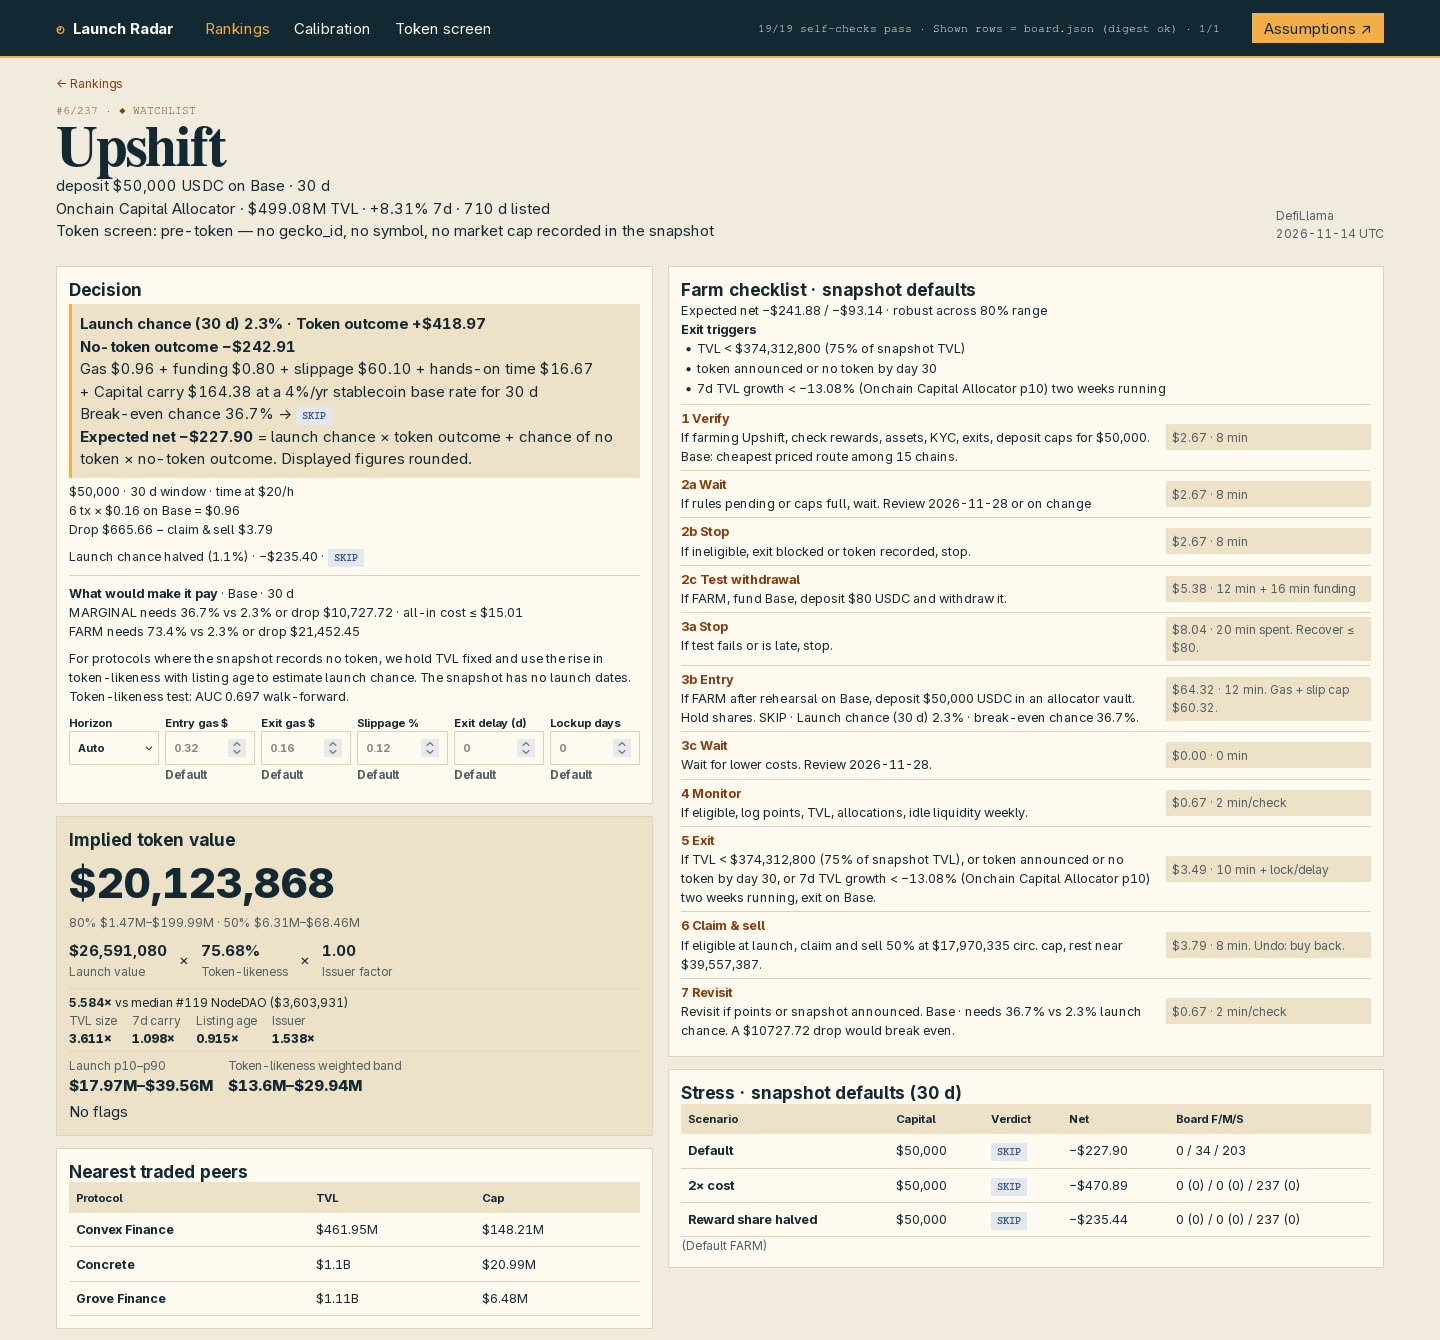
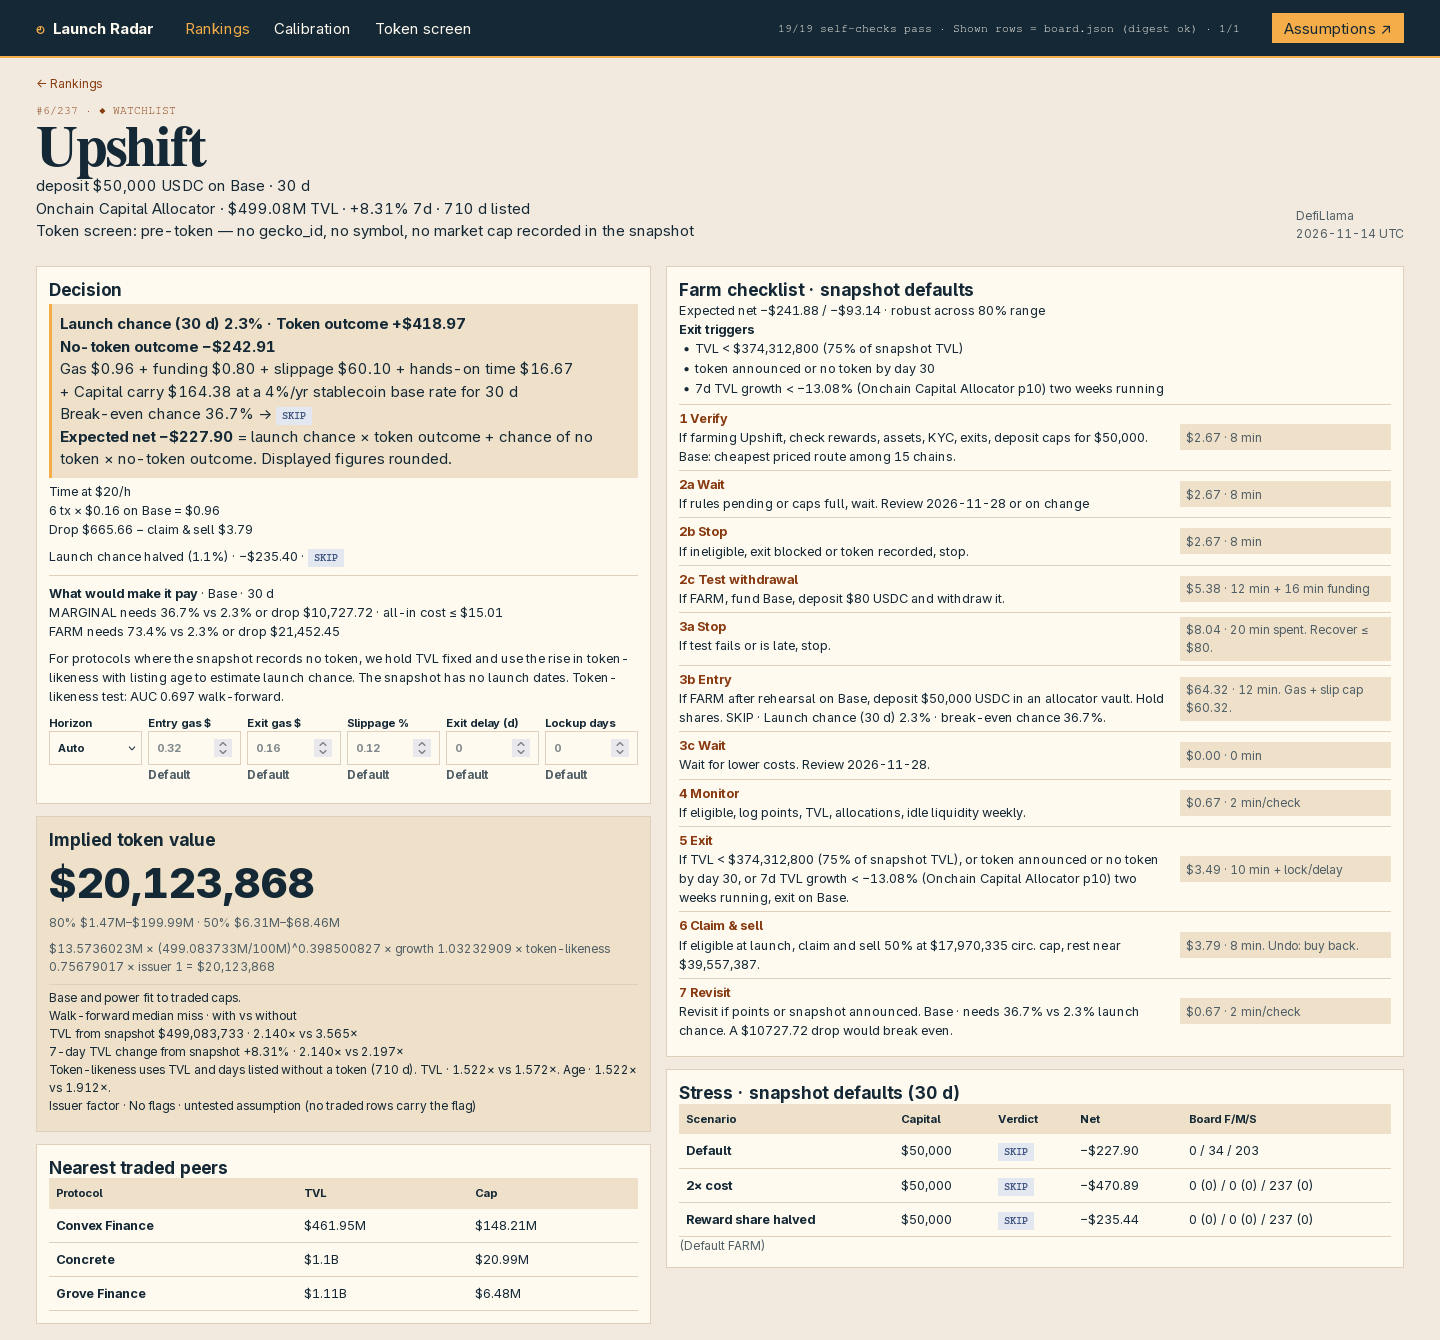
Per-row value equation on the board

diff --git a/dashboard/app.js b/dashboard/app.js
@@ -98,13 +98,12 @@ const option=(v,lbl,selected)=>`<option value="${esc(v)}"${selected?" selected":
 	filter=([lbl,k,opts,...names],st)=>`<label>${lbl}<select name=${k}>${html(opts,(v,i)=>option(v,filterName(k,v,names[i]),v===st[k]))}</select></label>`
 function plans(st,rows){
 	const best=rows.filter(({plan:p})=>p.verdict!=="SKIP").sort((a,b)=>b.plan.net-a.plan.net).slice(0,5)
-	return inset("Best plans that clear break-even",best.length?`<p>${grades.map(v=>count(rows,p=>p.plan.verdict===v)+" "+v).join(" · ")}
-${html(best,p=>{
+	return inset("Best plans that clear break-even",best.length?html(best,p=>{
 	const f=p.plan
 	return`<div><b class=pos>${net(f.net)} net</b>${pLink(p,st)} ${badge(f.verdict)}
 <small class=action>${esc(f.action)}</small><small>${usd(f.capital)} · ${f.handsOnMinutes} min hands-on<br>${launchLabel(f.horizon)} ${chance(f.q)} · Break-even chance ${breakEven(f.pStar)}</small>
 <small class=outcomes>Token ${decisionNet(f.withToken)} · No token ${decisionNet(f.noToken)}</small></div>`
-})}`:"<p>No visible row clears break-even."," plans")
+}):"<p>No visible row clears break-even."," plans")
 }
 const boardShell=st=>`${intro("Pre-token rankings","30–365 d farms")}
 <div class=integrity role=group aria-label=Integrity></div>
@@ -132,18 +131,21 @@ function filtered({scope,family,chain,verdict,flag,tvl,q,sort,dir}){
 }
 const range=r=>r.map(short).join("–"),
 	valueRange=r=>`80% ${range(r[80])} · 50% ${range(r[50])}`,
-	valueTitle=([score,base,s,factor],r)=>`${usd(score)} · 80% range ${range(r[80])} · ${short(base)} × ${pct(s,1)} × ${factor}`,
 	endpoints=rs.flatMap(({score,ranges})=>[score,...ranges[80]]),
 	logMin=log(min(...endpoints)),logSpan=log(max(...endpoints))-logMin||1,
 	barAt=n=>1+40*(log(n)-logMin)/logSpan
+function equation(r,format){
+	const [base,tvl,slope,...terms]=r.equation
+	return`<small class=equation>$${base}M × (${tvl}M/${tvlMillions}M)^${slope}${html(terms,([label,n])=>` × ${label} ${n}`)} = ${format(r.score)}</small>`
+}
 function tableRow(r,st){
-	const {slug,score,launchValue,tokenOdds,haircut,ranges,rank,plan:fp,watchlist,tvl_usd,change_7d}=r,
-		k=esc(slug),[lo,hi]=ranges[80].map(barAt),factors=[score,launchValue,tokenOdds,haircut]
-	return`<tr data-slug="${k}" data-factors=${factors}>
+	const {slug,score,tokenOdds,ranges,rank,plan:fp,watchlist,tvl_usd,change_7d}=r,
+		k=esc(slug),[lo,hi]=ranges[80].map(barAt)
+	return`<tr data-slug="${k}">
 <td class=rank>${rank}
 <th scope=row>${pLink(r,st)}${r.flags.length?" <span title='Issuer flag'>!</span>":""}
 <small>${rowName(r)}${watchlist?" <span class=watch title=Watchlist>◆</span>":""}
-<td class=value title="${valueTitle(factors,ranges)}"><b>${short(score)}</b><svg class=range aria-hidden=true><path d="M${lo} 4H${hi}"/><path d="M${barAt(score)} 0v8"/></svg>
+<td class=value title="80% range ${range(ranges[80])}"><b>${short(score)}</b><svg class=range aria-hidden=true><path d="M${lo} 4H${hi}"/><path d="M${barAt(score)} 0v8"/></svg>${equation(r,short)}
 <td>${pct(tokenOdds,1)}<td>${short(tvl_usd)}
 <td>${pill(change_7d)}
 <td>${days(r)}
@@ -152,7 +154,7 @@ function tableRow(r,st){
 }
 function compare(st){
 	const picks=st.compare.map(slug=>bySlug.get(slug))
-	if(!picks.length) return "<p class=hint>Compare up to 3."
+	if(!picks.length) return ""
 	const update=(compare,lbl,title=lbl)=>`<a class=btn href="${href("board",{...st,compare})}" title="${esc(title)}">${lbl}</a>`,
 		heads=picks.map(p=>pLink(p,st)+" "+update(st.compare.filter(s=>s!==p.slug),"×",`Remove ${p.name}`)),
 		stats=[["Value",p=>short(p.score)],["TVL",p=>short(p.tvl_usd)],
@@ -172,7 +174,7 @@ function verifyRows(rows,st){
 			&&trs.every((tr,i)=>tr.dataset.slug===rows[i].slug)
 	const matched=count(trs,tr=>{
 		const [rank,,value,odds]=tr.cells,n=Number(rank.textContent)
-		return matchesExport(n,tr.dataset.slug,value.textContent.trim(),tr.querySelector(".badge")?.textContent,short)
+		return matchesExport(n,tr.dataset.slug,value.firstElementChild.textContent,tr.querySelector(".badge")?.textContent,short)
 			&&odds.textContent===pct(board[n-1].token_odds,1)
 	})
 	const pass=!!(sameHash&&sorted&&matched===total)
@@ -229,16 +231,20 @@ ${text(166,167,"middle","Days pre-token")}
 </svg><p>${n} plotted${rs.length>n?` · ${rs.length-n} undated`:""}`
 }
 
-const stats=(items,kind="")=>`<dl class="${kind}">${html(items,([lbl,val,style=""])=>
-	`<div><dt>${lbl}<dd class="${style}">${val}</div>`)}</dl>`,
-	table=(kind,heads,body,attrs="")=>`<div class=scroll tabindex=0${attrs}><table class=${kind}><thead><tr>${heads}<tbody>${body}</table></div>`,
+const table=(kind,heads,body,attrs="")=>`<div class=scroll tabindex=0${attrs}><table class=${kind}><thead><tr>${heads}<tbody>${body}</table></div>`,
 	facts=(heads,rs)=>table("facts","<th>"+(typeof heads==="string"?heads.split("|"):heads).join("<th>"),
 		html(rs,([first,...cells])=>`<tr><th scope=row>${first}<td>${cells.join("<td>")}`))
-function drivers(r){
-	const {rank,name,score}=model.reference,factors=values(r.attribution)
-	return`<div class=drivers><p><b>${mult(r.score/score,3)}</b> vs median #${rank} ${esc(name)} (${usd(score)})
-${stats(["TVL size","7d carry","Listing age","Issuer","Family","Rounding"]
-	.map((lbl,i)=>[lbl,mult(factors[i],3)]).filter(([,x],i)=>i<4||x!=="1.000×"))}</div>`
+function valueSources(r){
+	const miss=(rows,label)=>{
+		const test=rows.find(e=>e.term===label)
+		return test?` · ${mult(test.withTerm.walk.miss,3)} vs ${mult(test.without.walk.miss,3)}`:""
+	}
+	return`<div class=sources><p>Base and power fit to traded caps.
+<p>Walk-forward median miss · with vs without
+<p>TVL from snapshot ${usd(r.tvl_usd)}${miss(evidence,"TVL exponent")}
+<p>7-day TVL change from snapshot ${chg(r.change_7d)}${r.growth!==r.change_7d?` (uses ${chg(r.growth)})`:""}${miss(evidence,"7d carry")}
+<p>Token-likeness uses TVL and days listed without a token (${r.ageDays==null?"median used":days(r)+" d"}). TVL${miss(odds.evidence,"TVL in token-likeness")}. Age${miss(odds.evidence,"Age in token-likeness")}.
+<p>Issuer factor · ${r.flags.length?r.flags.map(esc).join(" · ")+" · MARGINAL cap":"No flags"} · ${flagNote}</div>`
 }
 const quoteFields=[
 	["entryGas","Entry gas $"],["exitGas","Exit gas $"],["slippage","Slippage %",100],
@@ -259,7 +265,7 @@ function cashFlows(fp,quote,result){
 <p>+ Capital carry ${money(capitalCharge)} at a ${pct(riskFreeRate,0)}/yr stablecoin base rate for ${holding} d
 <p>Break-even chance ${breakEven(pStar)} → ${badge(verdict)}
 <p><b>Expected net ${decisionNet(gain)}</b> = launch chance × token outcome + chance of no token × no-token outcome. Displayed figures rounded.</div>
-<p>${usd(capital)} · ${horizon} d window · time at ${usd(hourlyUsd)}/h
+<p>Time at ${usd(hourlyUsd)}/h
 <p class=gas>${gasBasis} on ${esc(chain.name)} = ${money(gas)}
 <p>Drop ${money(drop)} − claim &amp; sell ${money(claimSell)}
 <p class=half-q>Launch chance halved (${chance(q/2)}) · ${net(half.net)} · ${badge(half.verdict)}
@@ -283,7 +289,7 @@ const labels="1 Verify|2a Wait|2b Stop|2c Test withdrawal|3a Stop|3b Entry|4 Mon
 function detail(st,r){
 	const back=`<a class=back href="${href("board",st)}">← Rankings</a>`
 	if(!r) return back+intro("Unavailable")
-	const {plan:fp,flags,band,ranges,rangeFarm:[low,high]}=r,
+	const {plan:fp,ranges,rangeFarm:[low,high]}=r,
 		tokenLine=r.reason==="watch"?`watchlist exception — kept despite ${r.nameRule||r.category}`:
 			`pre-token — no gecko_id, no symbol, no ${r.mcap_usd==null?"":"positive "}market cap recorded in the snapshot`,
 		summary=`${rowName(r)} · ${short(r.tvl_usd)} TVL · ${chg(r.change_7d)} 7d · ${days(r)} d listed<br><span id=token-reason>Token screen: ${esc(tokenLine)}</span>`,
@@ -293,19 +299,15 @@ function detail(st,r){
 		const p=fp.stress[k]??fp,{all=verdicts,farm}=stress[k]??{}
 		return[lbl,usd(p.capital),badge(p.verdict),net(p.net),grades.map(v=>farm?`${all[v]} (${farm[v]})`:all[v]).join(" / ")]
 	}),
-		flips=[low,high].flatMap(({verdict},i)=>verdict===fp.verdict?[]:[`flips to ${verdict} at ${i?"high":"low"} end`]),
-		factors=[[usd(r.launchValue),"Launch value"],[pct(r.tokenOdds),oddsLabel],[r.haircut.toFixed(2),"Issuer factor"]]
+		flips=[low,high].flatMap(({verdict},i)=>verdict===fp.verdict?[]:[`flips to ${verdict} at ${i?"high":"low"} end`])
 	return`${back}${intro(esc(r.name),summary,lead,lbl)}
 <div class=detail><div>
 ${quotePanel(r)}
 <section class="panel inset valuation">
 <h2>Implied token value</h2><div class=amount>${usd(r.score)}</div>
 <small class=value-range>${valueRange(ranges)}</small>
-<div class=equation>${factors.map(([n,lbl])=>`<div><b>${n}</b><small>${lbl}</small></div>`).join("×")}</div>
-${drivers(r)}
-${stats([["Launch p10–p90",range([band.low,band.high])],
-		["Token-likeness weighted band",range([band.weightedLow,band.weightedHigh])]],"band")}
-<p>${flags.length?flags.map(esc).join(" · ")+" · MARGINAL cap":"No flags"}
+${equation(r,usd)}
+${valueSources(r)}
 </section>
 ${inset("Nearest traded peers",facts("Protocol|TVL|Cap",
 		r.peers.map(p=>[esc(p.name),short(p.tvl_usd),short(p.mcap_usd)]))," peers")}

diff --git a/dashboard/style.css b/dashboard/style.css
@@ -5,7 +5,7 @@ font:15px/1.5 Adwaita Sans,FreeSans,sans-serif;
 font-variant-numeric:tabular-nums;color:var(--ink);background:#f2eade
 }
 *{box-sizing:border-box}
-body,h1,h2,h3,p,dl,dd{margin:0}
+body,h1,h2,h3,p{margin:0}
 a{color:inherit;text-decoration:none}
 a:hover{text-decoration:underline}
 button,select,input{font:inherit;color:inherit}
@@ -13,11 +13,11 @@ button,select,summary{cursor:pointer}
 :focus-visible{outline:2px solid}
 h1{font:700 clamp(2.4rem,4vw,3.9rem)/1 FreeSerif,serif;letter-spacing:-.035em}
 h2{font-size:1.14rem;line-height:1.25}
-.frame{width:min(1328px,95%);margin:auto}
+.frame{width:min(1376px,95%);margin:auto}
 body>header{background:var(--ink);color:var(--sheet);border-bottom:2px solid var(--signal)}
 .chip,.panel,dialog,.dialog-top{background:var(--sheet)}
-.brand,.mast,.bar,.dialog-top,.equation{display:flex;align-items:center}
-.intro,.readings,.legend,.integrity,dl,nav{display:flex}
+.brand,.mast,.bar,.dialog-top{display:flex;align-items:center}
+.intro,.readings,.legend,.integrity,nav{display:flex}
 .mast{min-height:56px;gap:32px}
 .brand{gap:8px;font-weight:700}
 .brand span,[aria-current]{color:var(--signal)}
@@ -27,9 +27,9 @@ nav{gap:24px;margin-right:auto}
 .btn,.chip{border:0}
 .btn{padding:4px 12px;background:var(--signal);color:var(--ink)}
 #checks,.rank,.kicker{font:.76rem monospace}
-small,dt,.curve{color:var(--dim)}
+small,.curve{color:var(--dim)}
 .intro,.bar,.dialog-top{justify-content:space-between}
-.integrity,.readings,.drivers dl{flex-wrap:wrap}
+.integrity,.readings{flex-wrap:wrap}
 .intro{align-items:end;margin:12px 0 24px}
 .integrity{gap:2px;margin:-17px 0 8px}
 .chip{padding:2px 1px;white-space:nowrap;font-size:.68rem}
@@ -42,14 +42,14 @@ small,dt,.curve{color:var(--dim)}
 .groups{grid:auto/1fr 1fr}
 #token-groups a{text-decoration:underline}
 #token-groups [aria-current]{color:inherit;font-weight:700}
-.readings,.band,.board,.detail,.research,.drivers dl{gap:1rem}
+.readings,.board,.detail,.research{gap:1rem}
 :not(strong)>small,.readings span,svg,.back{display:block}
 .misses strong{font-size:1.4rem}
-small,dt,.curve,.drivers,.rail,.hint,.back,.kpi{font-size:.8rem}
+small,.curve,.sources,.rail,.back,.kpi{font-size:.8rem}
 .valuation,.decision,.steps small,thead,.rank{background:var(--wash)}
 .board,.detail,.research{align-items:start}
-.board{grid:auto/1fr 310px}
-.rail,.detail>div,.legend,.equation{gap:12px}
+.board{grid:auto/1fr 290px}
+.rail,.detail>div,.legend{gap:12px}
 .bar{padding:12px 16px 8px}
 .filters{grid:auto/1.4fr repeat(6,1fr);padding:0 16px 8px}
 :is(.filters,.quotes){
@@ -59,16 +59,19 @@ small,dt,.curve,.drivers,.rail,.hint,.back,.kpi{font-size:.8rem}
 .scroll{overflow:auto}
 #active-filters:not(:empty){display:flex;align-items:center;flex-wrap:wrap;gap:6px;margin:0 16px 8px}
 #active-filters .chip{padding:2px 8px;background:var(--wash);font-size:.8rem;white-space:normal}
-#results .scroll{max-height:511px}
+#results .scroll{max-height:675px}
 table{width:100%;border-collapse:collapse}
 th{text-align:left}
 thead{font-size:.75rem}
-.ranks{min-width:880px;font-size:.88rem;line-height:1.15}
+.ranks{min-width:1020px;font-size:.88rem;line-height:1.15}
 .ranks :is(td,th){padding:2px 4px}
+.ranks tbody :is(td,th){vertical-align:top;padding-bottom:17px}
 .ranks :is(td,small){white-space:nowrap}
-.ranks tr>:nth-child(8){box-shadow:inset 2px 0 var(--ink);padding-left:8px}
+.ranks tr>:nth-child(8){padding-left:8px}
 .ranks td:nth-child(9) small{white-space:normal}
+.value{position:relative}
 .value b{font-size:1rem}
+.value .equation{position:absolute;left:4px;bottom:2px;font-size:.75rem}
 .range{width:42px;height:8px;margin-left:4px;vertical-align:middle;background:var(--wash)}
 .range path{stroke:var(--ink);stroke-width:2}
 .range path:first-child{stroke:var(--signal);stroke-width:4}
@@ -79,9 +82,9 @@ thead{font-size:.75rem}
 .ranks .badge{min-width:9ch;border:1px solid var(--mark);border-radius:2px;font-size:11px}
 .ranks .skip{--mark:var(--ink);--tint:transparent}
 .rank,.ranks th:first-child{text-align:center}
-.hint,.compare{margin:0 16px 8px}
+.compare{margin:0 16px 8px}
 tbody tr{border-bottom:var(--line)}
-.protocol,dd,.amount{font-weight:750}
+.protocol,.amount{font-weight:750}
 .pos,.chip[data-pass=true]{color:var(--gain)}
 .neg,.chip[data-pass=false]{color:var(--loss)}
 .badge{padding:3px 6px;font:700 .7rem/1.15 monospace;color:var(--mark);background:var(--tint)}
@@ -97,7 +100,7 @@ circle{fill:var(--mark)}
 .plot g text{fill:var(--ink);font-weight:700;paint-order:stroke;stroke:var(--sheet);stroke-width:3px;stroke-linejoin:round}
 .legend{font:.7rem monospace}
 .legend span::before{content:"● ";color:var(--mark)}
-.plans div,.pay,.steps li,.drivers,.band{border-top:var(--line)}
+.plans div,.pay,.steps li,.sources{border-top:var(--line)}
 .plans{line-height:1.2}
 .plans b{float:right}
 .pay{padding-top:8px}
@@ -111,10 +114,10 @@ circle{fill:var(--mark)}
 .detail h3,.steps p,.quote p,.facts,.kpi h2,.exits,.range-net{font-size:.85rem}
 .quote .decision p{font-size:1rem}
 .exits{margin:0;padding-left:1.25em}
-.half-q,.quotes,.pay,.equation{margin-block:8px}
+.half-q,.quotes,.pay,.valuation .equation{margin-block:8px}
 .quotes{grid:auto/repeat(auto-fit,minmax(80px,1fr));gap:6px}
 .amount{font-size:2.8rem}
-.drivers,.band,.steps li{padding:4px 0}
+.sources,.steps li{padding:4px 0}
 .facts :is(td,th){padding:7px}
 .research{grid:auto/7fr 5fr}
 dialog{margin:0 0 0 auto;height:100%;max-height:none;width:min(640px,100%);border:0}

diff --git a/dashboard/model.js b/dashboard/model.js
@@ -352,16 +352,23 @@ const tokenOdds=(fit,p)=>sigmoid(dot(oddsFeatures(p,fit.age),fit.beta))
 
 const launchOdds=(fit,p)=>record(A.horizons,h=>max(0,
 	(tokenOdds(fit,{...p,ageDays:(p.ageDays??fit.age)+h})-p.tokenOdds)/(1-p.tokenOdds)))
-function attribution(p,ref,fit,odds){
-	const sized={...ref,rawSize:p.rawSize,size:p.rawSize+(ref.size-ref.rawSize)},
-		carried={...sized,size:p.size,growth:p.growth},
-		aged={...carried,ageDays:p.ageDays},
-		[size,carry,age,family]=[sized,carried,aged,p].map((row,i,path) =>
-		exp(capLog(fit,row)-capLog(fit,path[i-1]??ref))),
-		midOdds=tokenOdds(odds,sized)
-	return{size:size*midOdds/ref.tokenOdds,carry,age:age*p.tokenOdds/midOdds,
-		issuer:p.haircut/ref.haircut,family,
-		rounding:(p.score/rawScore(p))/(ref.score/rawScore(ref))}
+const tvlMillions=A.tvlReference/1e6,
+	equationScore=([base,tvl,slope,...terms])=>max(1,round(terms.reduce((v,[,n])=>v*n,
+		base*1e6*(tvl/tvlMillions)**slope)))
+function valueEquation(fit,p){
+	const [intercept,slope,...weights]=fit.coefficients,[,size,...inputs]=capInputs(p,fit),
+		terms=[["growth",exp((size-p.rawSize)*slope)],
+			...fit.features.flatMap(([label],i)=>inputs[i]&&weights[i]?[[label,exp(inputs[i]*weights[i])]]:[]),
+			...(fit.group?[[fit.candidate,exp(fit.offsets.get(fit.group(p))??0)]]:[]),
+			["token-likeness",p.tokenOdds],["issuer",p.haircut]]
+	let shown
+	for(let digits=4;digits<=17;digits++){
+		const print=n=>+n.toPrecision(digits)
+		shown=[print(exp(intercept)/1e6),print(p.tvl_usd/1e6),print(slope),
+			...terms.map(([label,n])=>[label,print(n)])]
+		if(equationScore(shown)===p.score) break
+	}
+	return shown
 }
 function oddsTest(splits,omit){
 	const scored=splits.flatMap(([train,test])=>{
@@ -509,7 +516,7 @@ function boardChecks(board,{protocols,watchlist},bytes){
 const orderedRows=rs=>count(rs,(p,i)=>p?.rank===i+1&&(!i||p.implied_value_usd<=rs[i-1]?.implied_value_usd)),
 	validSteps=steps=>Array.isArray(steps)&&steps.length>=3&&steps.length<=12
 		&&steps.every(s=>typeof s==="string"&&/^.{20,600}$/s.test(s.trim())&&/^(If|Revisit if) .+\$\d.*\d+ min/u.test(s))
-function selfChecks({rows:rs,board,counts,recs,stress,reference,calibration,value,odds},snap,expectedDigest){
+function selfChecks({rows:rs,board,counts,recs,stress,calibration,value,odds},snap,expectedDigest){
 	const {evidence,search,deployed,selected:winner}=value.validation,
 		plans=rs.map(p=>p.plan),samples=plans.filter(p=>p.pStar!==null&&p.q>0&&p.drop>0),close=(a,b)=>abs(a-b)<1e-8
 	return[...boardChecks(board,snap),...checks({
@@ -519,7 +526,7 @@ function selfChecks({rows:rs,board,counts,recs,stress,reference,calibration,valu
 			&&recs.every((p,i)=>p.slug===snap.protocols[i].slug&&reasons[p.reason]?.[0]===p.status)
 			&&statuses.every(k=>count(recs,p=>reasons[p.reason]?.[0]===k)===counts[k]),
 		"value factors":rs.every(p=>scoreOf(p)===p.score),
-		"attribution":rs.every(p=>abs(values(p.attribution).reduce((a,b)=>a*b,1)*reference.score/p.score-1)<1e-10),
+		"displayed value equation":rs.every(p=>equationScore(p.equation)===p.score),
 		"bootstrap bands":rs.every(p=>p.band.low>0&&p.band.low<=p.band.high&&p.tokenOdds>0&&p.tokenOdds<1),
 		"80% LOO coverage":abs(value.ranges.loo80-.8)<=.02,
 		"flagged plans":rs.every(p=>p.flags.length?p.haircut===A.haircut&&p.plan.verdict!=="FARM":p.haircut===1),
@@ -567,16 +574,14 @@ function buildModel(snap){
 			s=tokenOdds(oddsFit,p),
 			haircut=p.flags.length?A.haircut:1,
 			[low,high]=band(resamples.map(fit=>exp(capLog(fit,p)))),
-			row={...p,launchValue,tokenOdds:s,haircut,band:{low,high,weightedLow:low*s*haircut,weightedHigh:high*s*haircut},
+			row={...p,launchValue,tokenOdds:s,haircut,band:{low,high},
 			peers:peersFor(p,pts)}
 		row.score=scoreOf(row)
+		row.equation=valueEquation(fit,row)
 		const growth=p.category?quant(categories.get(p.category).map(r=>r.change_7d).filter(finite),A.exitGrowthQuantile):null
 		return{...row,plan:farmPlan(row,review,oddsFit,growth)}
-	}).sort(rankBy("score"))
-		.map((p,i)=>({...p,rank:i+1})),
-		reference=rs[floor(rs.length/2)]
+	}).sort(rankBy("score")).map((p,i)=>({...p,rank:i+1}))
 	for(const p of rs){
-		p.attribution=attribution(p,reference,fit,oddsFit)
 		p.ranges=record(coverage,k=>quantiles[k].map(q=>p.score*exp(q)))
 		const fp=p.plan
 		p.rangeFarm=p.ranges[80].map(v=>evaluateFarm(fp,fp.capital,{share:v/p.score}))
@@ -588,7 +593,7 @@ function buildModel(snap){
 		stress=record(["doubleCost","halfShare"],k=>({all:tally(rs,p=>p.plan.stress[k].verdict),
 			farm:tally(farms,p=>p.plan.stress[k].verdict)})),
 		calibration=pts.map(p=>({...p,launchValue:exp(capLog(fit,p))}))
-	return{rows:rs,recs,reference,board:{rows:boardRows(rs)},counts,verdicts,stress,
+	return{rows:rs,recs,board:{rows:boardRows(rs)},counts,verdicts,stress,
 		value,odds,calibration,assumptions:settings}
 }
 const statuses=["traded","recorded","setAside","ranked"],band=xs=>A.bandQuantiles.map(q=>quant(xs,q)),
